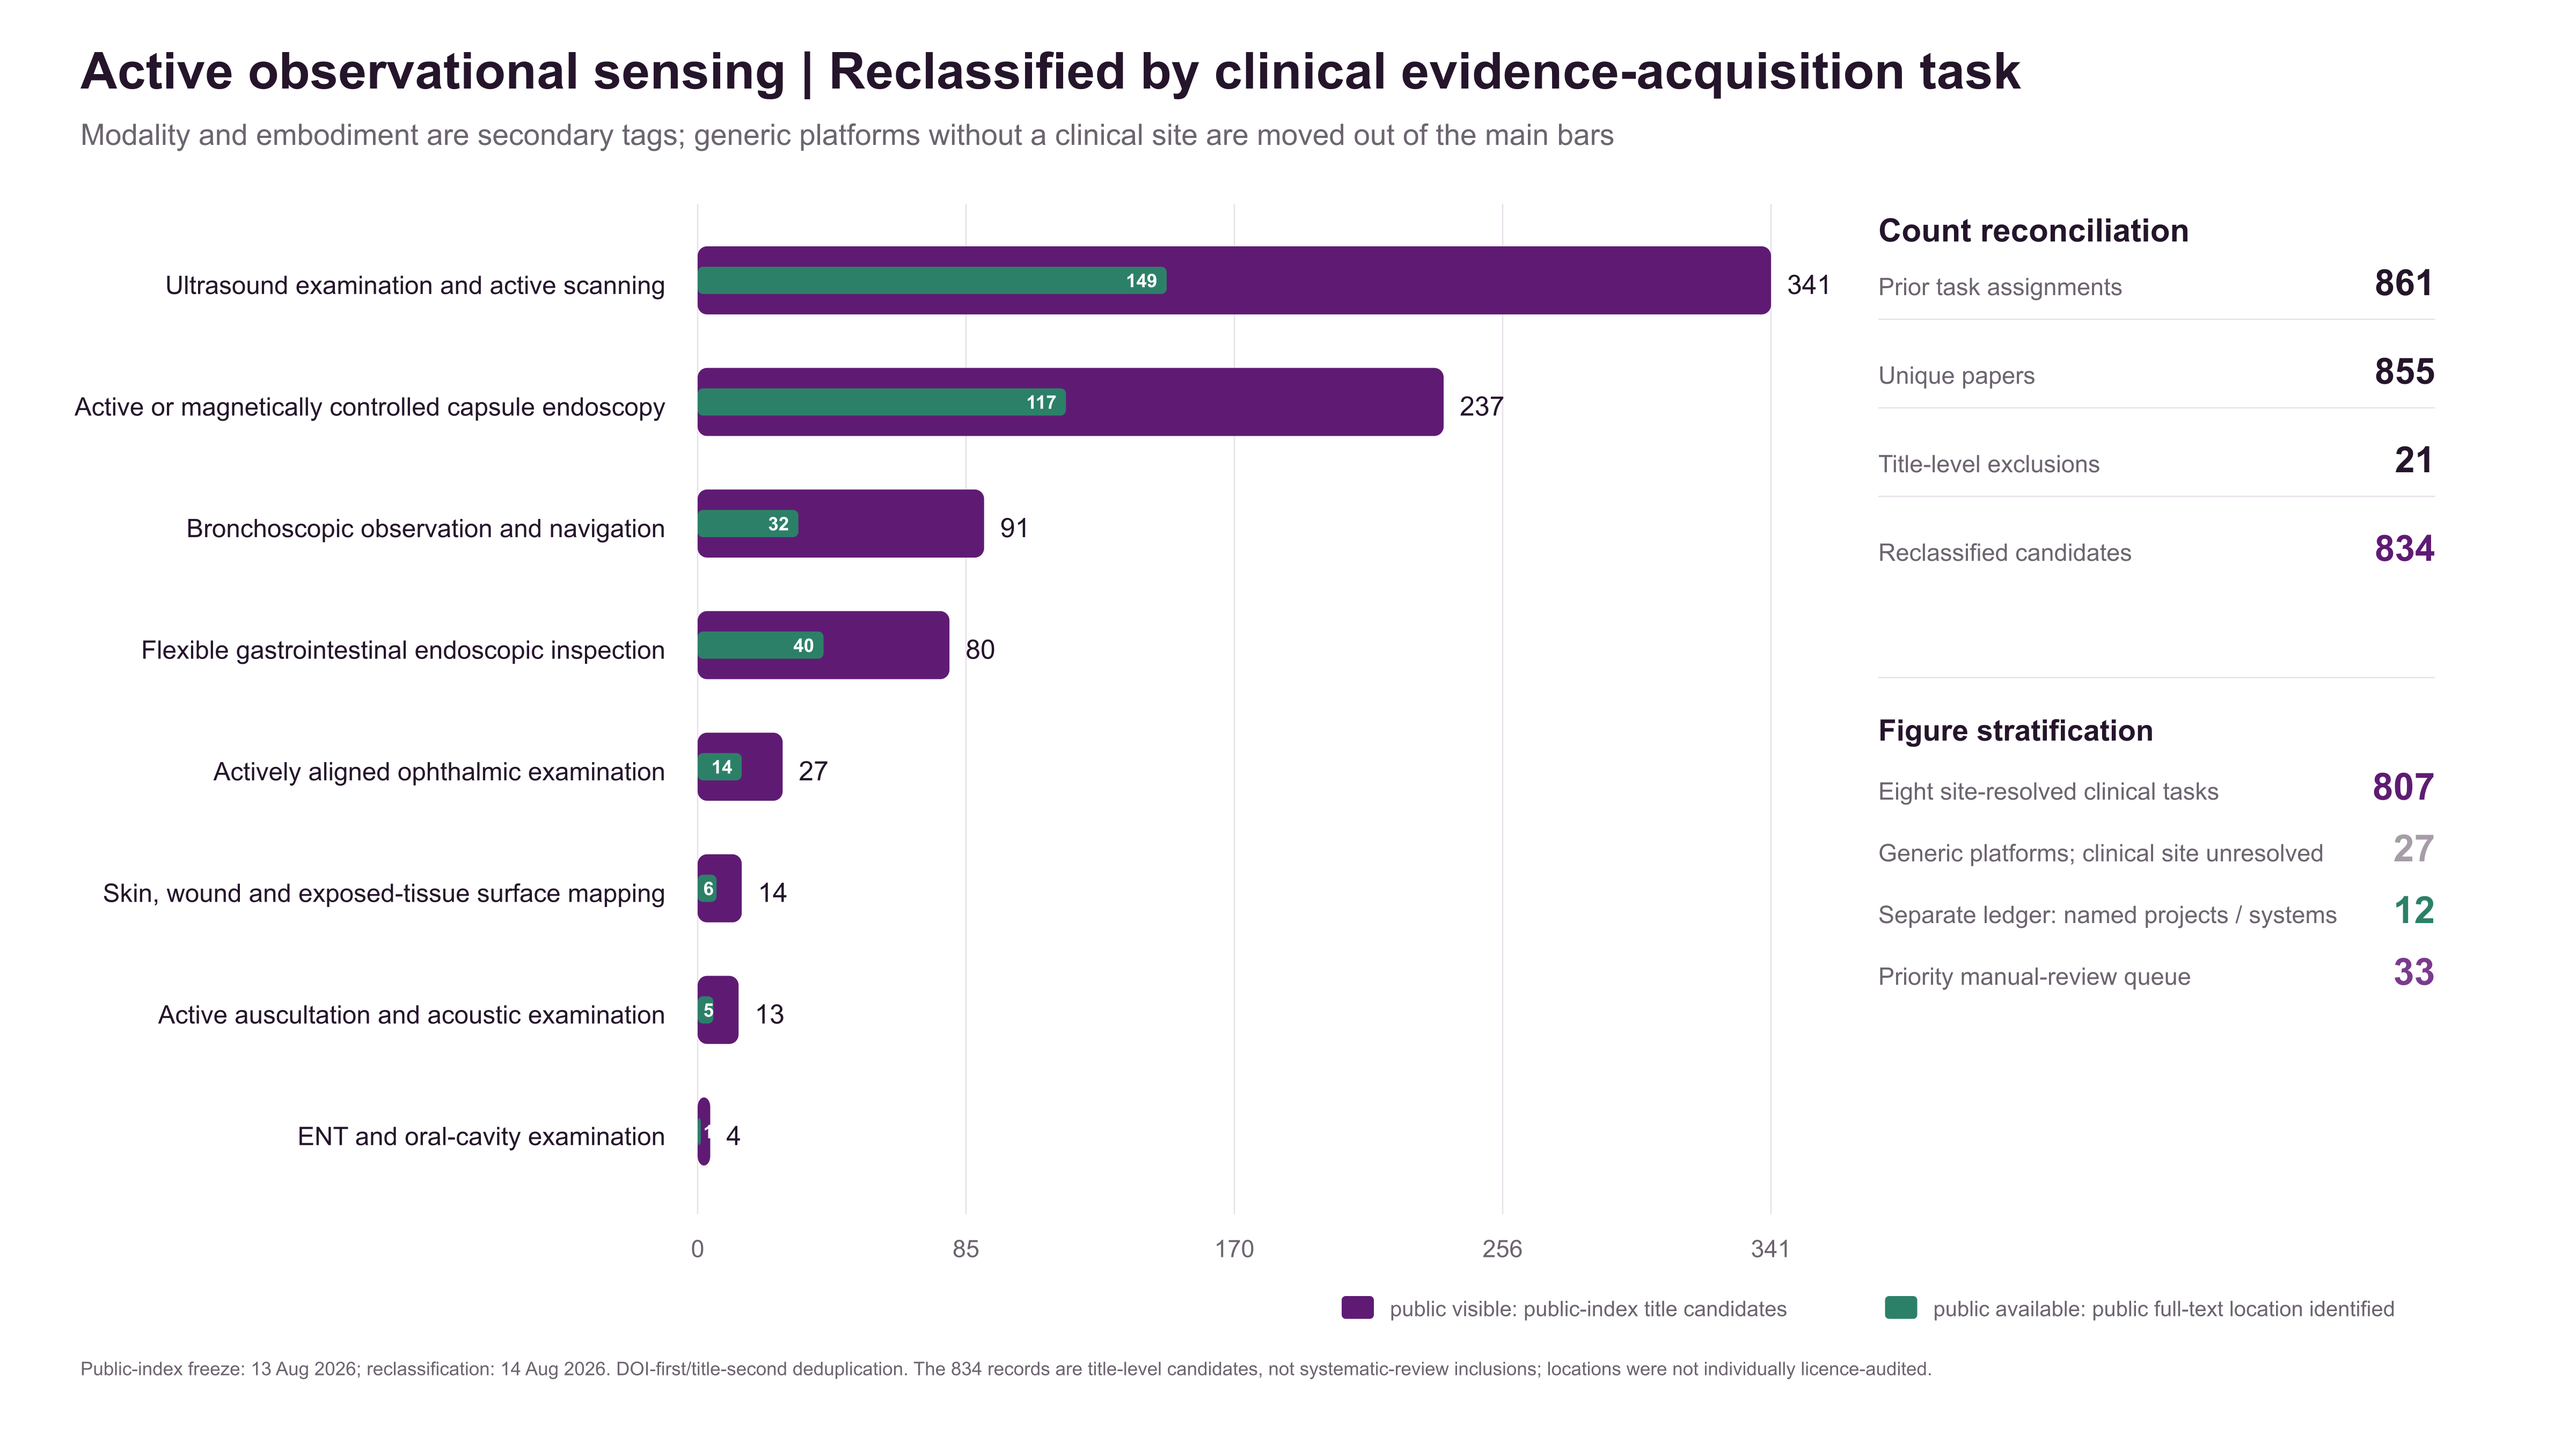
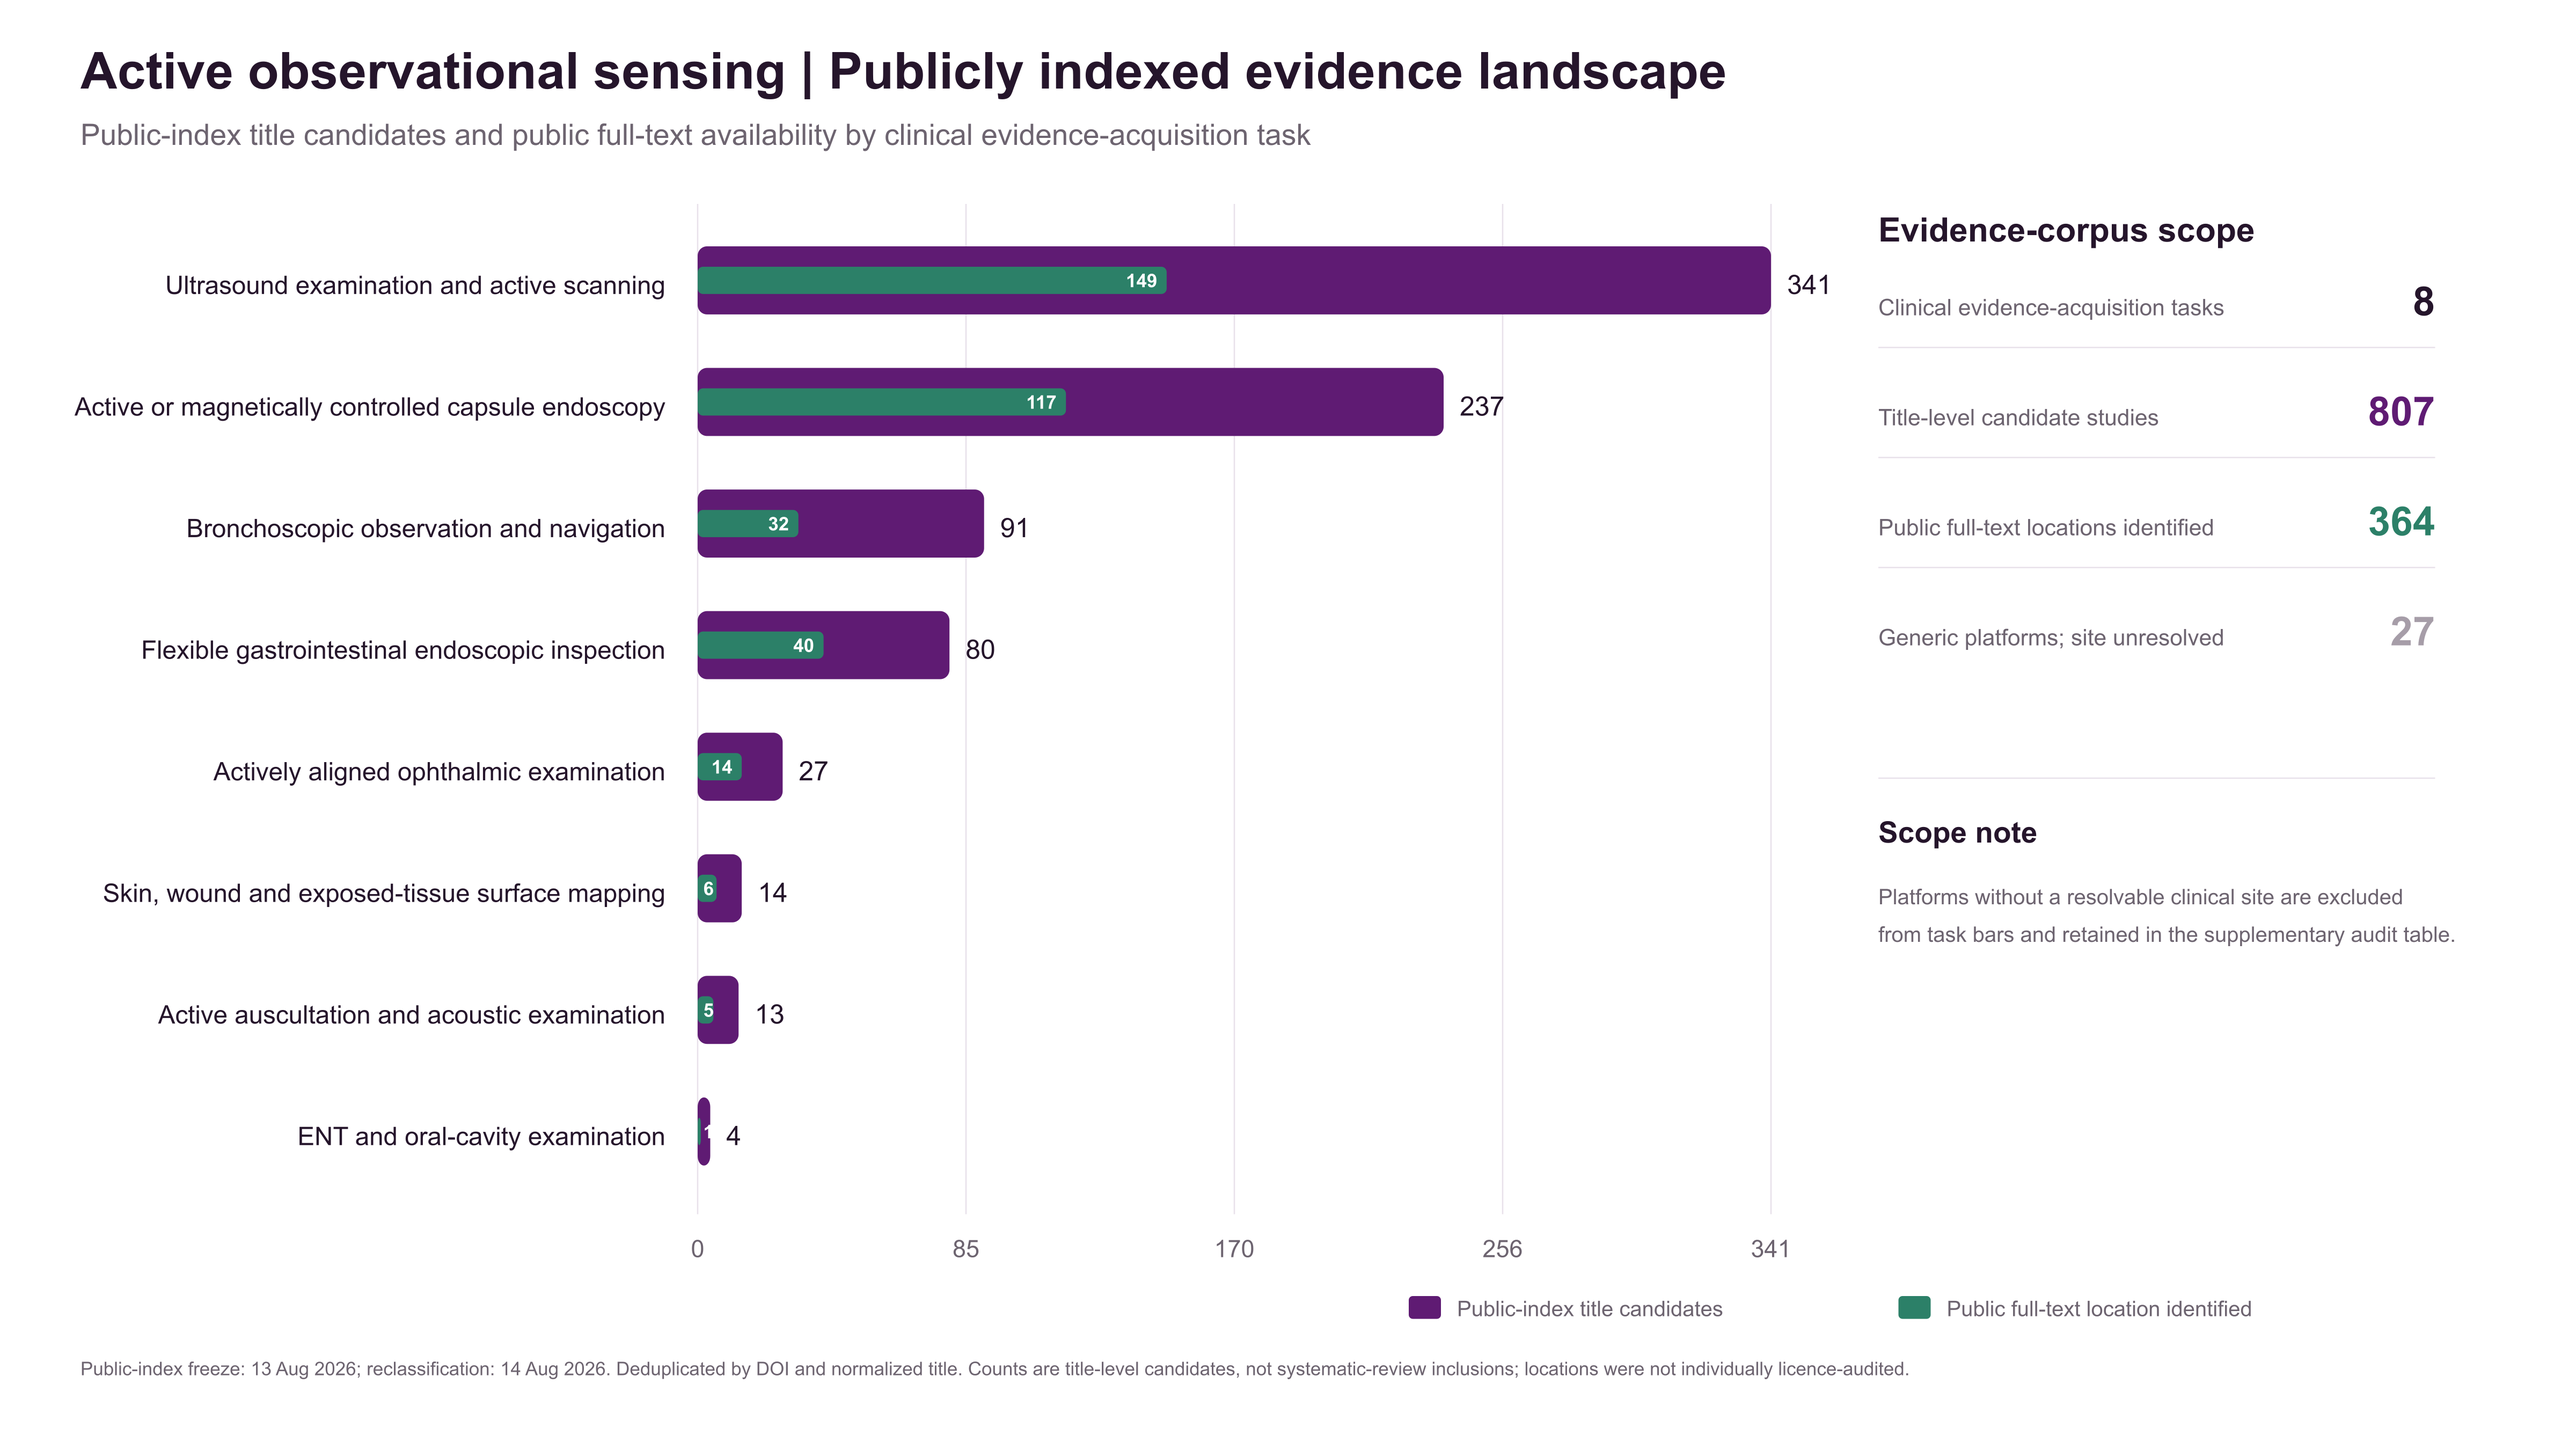
Polish P5 figure for publication

diff --git a/scripts/make_english_public_figures.py b/scripts/make_english_public_figures.py
@@ -1,6 +1,6 @@
 """Generate English counterparts for every current public-evidence presentation chart.
 
-The English SVGs use the same frozen CSV/JSON inputs and counting fields as their
+The English SVGs use the same frozen data inputs and counting fields as their
 Chinese counterparts.  They are presentation translations, not independent
 analyses.  PNG rendering is deliberately handled by ``rasterize_svg.mjs`` so the
 editable SVG remains the canonical figure.
@@ -9,7 +9,6 @@ from __future__ import annotations
 
 import csv
 import html
-import json
 import argparse
 from pathlib import Path
 
@@ -138,16 +137,15 @@ def extended_p5() -> None:
 
 def reclassified_p5() -> None:
     counts = read_csv("p5_reclassified_task_counts_2026-08-14.csv")
-    qc = json.loads((DATA / "p5_reclassification_qc_2026-08-14.json").read_text(encoding="utf-8"))
-    projects = read_csv("p5_reclassified_public_projects_2026-08-14.csv")
     rows = sorted((r for r in counts if r["primary_task_code"] != "T9"), key=lambda x:int(x["public_visible_unique_title_candidates"]), reverse=True)
     generic = next(r for r in counts if r["primary_task_code"] == "T9")
     clinical_total = sum(int(r["public_visible_unique_title_candidates"]) for r in rows)
+    clinical_available = sum(int(r["public_available_location_identified"]) for r in rows)
     width, height, left, chart_right, top, bottom = 1920, 1080, 520, 1320, 170, 185
     chart_w = chart_right-left; row_h=(height-top-bottom)/len(rows); maximum=max(int(r["public_visible_unique_title_candidates"]) for r in rows)
     body=[f'<rect width="{width}" height="{height}" fill="white"/>',
-          f'<text x="60" y="66" font-family="{FONT}" font-size="38" font-weight="700" fill="{C["text"]}">Active observational sensing | Reclassified by clinical evidence-acquisition task</text>',
-          f'<text x="60" y="108" font-family="{FONT}" font-size="22" fill="{C["muted"]}">Modality and embodiment are secondary tags; generic platforms without a clinical site are moved out of the main bars</text>']
+          f'<text x="60" y="66" font-family="{FONT}" font-size="38" font-weight="700" fill="{C["text"]}">Active observational sensing | Publicly indexed evidence landscape</text>',
+          f'<text x="60" y="108" font-family="{FONT}" font-size="22" fill="{C["muted"]}">Public-index title candidates and public full-text availability by clinical evidence-acquisition task</text>']
     for i in range(5):
         x=left+chart_w*i/4
         body += [f'<line x1="{x}" y1="{top-18}" x2="{x}" y2="{height-bottom+10}" stroke="{C["grid"]}"/>',
@@ -162,22 +160,18 @@ def reclassified_p5() -> None:
         if available:
             body.append(f'<text x="{left+max(wa-7,12)}" y="{y+bar_h*.60}" text-anchor="end" font-family="{FONT}" font-size="14" font-weight="700" fill="white">{available}</text>')
     x0=1400
-    body += [f'<text x="{x0}" y="180" font-family="{FONT}" font-size="24" font-weight="700" fill="{C["text"]}">Count reconciliation</text>']
-    flow=[("Prior task assignments",qc["task_assignment_rows"]),("Unique papers",qc["unique_works"]),("Title-level exclusions",qc["excluded_by_title_scope_rules"]),("Reclassified candidates",qc["included_title_candidates"])]
-    for i,(label,value) in enumerate(flow):
-        y=220+i*66
-        body += [f'<text x="{x0}" y="{y}" font-family="{FONT}" font-size="18" fill="{C["muted"]}">{label}</text>',
-                 f'<text x="1815" y="{y}" text-anchor="end" font-family="{FONT}" font-size="27" font-weight="700" fill="{C["purple"] if i==3 else C["text"]}">{value}</text>']
-        if i<3: body.append(f'<line x1="{x0}" y1="{y+18}" x2="1815" y2="{y+18}" stroke="{C["grid"]}"/>')
-    body += [f'<line x1="{x0}" y1="505" x2="1815" y2="505" stroke="{C["grid"]}"/>',
-             f'<text x="{x0}" y="552" font-family="{FONT}" font-size="22" font-weight="700" fill="{C["text"]}">Figure stratification</text>',
-             f'<text x="{x0}" y="596" font-family="{FONT}" font-size="18" fill="{C["muted"]}">Eight site-resolved clinical tasks</text><text x="1815" y="596" text-anchor="end" font-family="{FONT}" font-size="28" font-weight="700" fill="{C["purple"]}">{clinical_total}</text>',
-             f'<text x="{x0}" y="642" font-family="{FONT}" font-size="18" fill="{C["muted"]}">Generic platforms; clinical site unresolved</text><text x="1815" y="642" text-anchor="end" font-family="{FONT}" font-size="28" font-weight="700" fill="{C["gray"]}">{generic["public_visible_unique_title_candidates"]}</text>',
-             f'<text x="{x0}" y="688" font-family="{FONT}" font-size="18" fill="{C["muted"]}">Separate ledger: named projects / systems</text><text x="1815" y="688" text-anchor="end" font-family="{FONT}" font-size="28" font-weight="700" fill="{C["green"]}">{len(projects)}</text>',
-             f'<text x="{x0}" y="734" font-family="{FONT}" font-size="18" fill="{C["muted"]}">Priority manual-review queue</text><text x="1815" y="734" text-anchor="end" font-family="{FONT}" font-size="28" font-weight="700" fill="#7B3B8D">{qc["priority_manual_review"]}</text>',
-             f'<rect x="1000" y="966" width="24" height="17" rx="3" fill="{C["purple"]}"/><text x="1036" y="981" font-family="{FONT}" font-size="16" fill="{C["muted"]}">public visible: public-index title candidates</text>',
-             f'<rect x="1405" y="966" width="24" height="17" rx="3" fill="{C["green"]}"/><text x="1441" y="981" font-family="{FONT}" font-size="16" fill="{C["muted"]}">public available: public full-text location identified</text>',
-             f'<text x="60" y="1025" font-family="{FONT}" font-size="14" fill="{C["muted"]}">Public-index freeze: 13 Aug 2026; reclassification: 14 Aug 2026. DOI-first/title-second deduplication. The 834 records are title-level candidates, not systematic-review inclusions; locations were not individually licence-audited.</text>']
+    body += [f'<text x="{x0}" y="180" font-family="{FONT}" font-size="25" font-weight="700" fill="{C["text"]}">Evidence-corpus scope</text>']
+    scope=[("Clinical evidence-acquisition tasks",len(rows),C["text"]),("Title-level candidate studies",clinical_total,C["purple"]),("Public full-text locations identified",clinical_available,C["green"]),("Generic platforms; site unresolved",generic["public_visible_unique_title_candidates"],C["gray"])]
+    for i,(label,value,color) in enumerate(scope):
+        y=235+i*82
+        body += [f'<text x="{x0}" y="{y}" font-family="{FONT}" font-size="17" fill="{C["muted"]}">{label}</text>',f'<text x="1815" y="{y}" text-anchor="end" font-family="{FONT}" font-size="30" font-weight="700" fill="{color}">{value}</text>']
+        if i<3: body.append(f'<line x1="{x0}" y1="{y+24}" x2="1815" y2="{y+24}" stroke="{C["grid"]}"/>')
+    body += [f'<line x1="{x0}" y1="580" x2="1815" y2="580" stroke="{C["grid"]}"/>',
+             f'<text x="{x0}" y="628" font-family="{FONT}" font-size="22" font-weight="700" fill="{C["text"]}">Scope note</text>',
+             f'<text x="{x0}" y="674" font-family="{FONT}" font-size="16" fill="{C["muted"]}">Platforms without a resolvable clinical site are excluded</text><text x="{x0}" y="702" font-family="{FONT}" font-size="16" fill="{C["muted"]}">from task bars and retained in the supplementary audit table.</text>',
+             f'<rect x="1050" y="966" width="24" height="17" rx="3" fill="{C["purple"]}"/><text x="1086" y="981" font-family="{FONT}" font-size="16" fill="{C["muted"]}">Public-index title candidates</text>',
+             f'<rect x="1415" y="966" width="24" height="17" rx="3" fill="{C["green"]}"/><text x="1451" y="981" font-family="{FONT}" font-size="16" fill="{C["muted"]}">Public full-text location identified</text>',
+             f'<text x="60" y="1025" font-family="{FONT}" font-size="14" fill="{C["muted"]}">Public-index freeze: 13 Aug 2026; reclassification: 14 Aug 2026. Deduplicated by DOI and normalized title. Counts are title-level candidates, not systematic-review inclusions; locations were not individually licence-audited.</text>']
     save("p5_reclassified_clinical_tasks_en.svg",width,height,body)
 
     matrix_rows=read_csv("p5_task_modality_matrix_2026-08-14.csv")

diff --git a/docs/P5_RECLASSIFIED_PUBLIC_LANDSCAPE_2026-08-14.md b/docs/P5_RECLASSIFIED_PUBLIC_LANDSCAPE_2026-08-14.md
@@ -86,7 +86,10 @@ The validation report passes with zero errors:
 ## P5 use
 
 Use `figures/public_evidence/p5_reclassified_clinical_tasks.svg` as the main P5
-visual. It is a 16:9 slide-sized editable vector. Use
+visual. It is a publication-ready 16:9 editable vector. Internal workflow-audit
+metrics (prior assignments, title exclusions, named projects and manual-review
+queues) are retained in this methods record and the audit workbook rather than
+displayed in the main figure. Use
 `figures/public_evidence/p5_task_modality_matrix.svg` as a second panel,
 appendix figure or discussion backup. PNG copies are provided for rapid preview.
 
